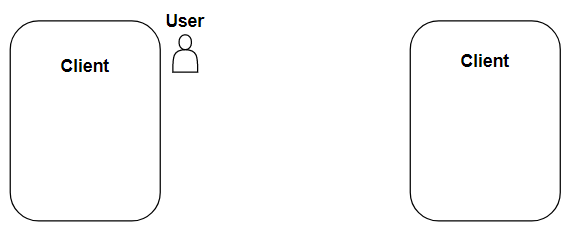
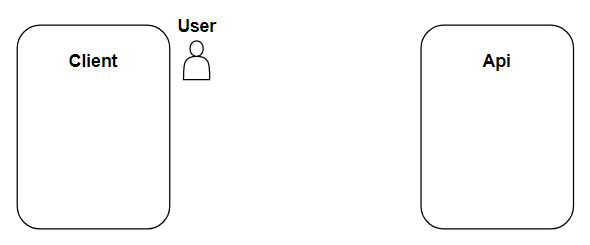
Bijna afgewerkte literatuurstudie

diff --git a/bachproef/standvanzaken.tex b/bachproef/standvanzaken.tex
@@ -7,21 +7,21 @@
 
 % Pas na deze inleidende paragraaf komt de eerste sectiehoofding.
 
-In deze studie lees je alles over het OAuth framework en wat de rol van azure hierin is. Het doel van deze studie is om een nauwgezet beeld te krijgen van het onderwerp om zo op de hoogte te zijn van de huidige stand van zaken in het onderzoeksdomein. Deze studie focust zich op volgende vragen. Wat houdt het OAuth framework in? Waarom was er vraag naar een nieuw authorization framework? Hoe is OAuth geëvalueerd? Wat zijn enkele problemen van OAuth? Wat heef azure active directory hiermee te maken? Ook zal duidelijk het verschil tussen authorization en authenticatie uitgelegd worden om daarna kort in te gaan op openID, een framework dat bovenop OAuth geplaatst kan worden.
-\section{\IfLanguageName{dutch}{Het OAuth framework}{The OAuth framework}}
+In deze studie lees je alles over het OAuth-framework en wat de rol van azure hierin is. Het doel van deze studie is om een nauwgezet beeld te krijgen van het onderwerp om zo op de hoogte te zijn van de huidige stand van zaken in het onderzoeksdomein. Deze studie focust zich op volgende vragen. Wat houdt het OAuth-framework in? Waarom was er vraag naar een nieuw authorization framework? Wat heeft azure active directory hiermee te maken? Ook zal duidelijk het verschil tussen authorization en authenticatie uitgelegd worden om daarna kort in te gaan op openID, een framework dat bovenop OAuth geplaatst kan worden.
+\section{\IfLanguageName{dutch}{Het OAuth-framework}{The OAuth-framework}}
 \label{sec:OAuthFramework}
 Om de onderzoeksvraag correct te beantwoorden is het belangrijk dat er eerst diep wordt ingegaan op het doel en de flow van het authorization framework OAuth.
 
-OAuth is een framework dat het mogelijk maakt voor gebruikers om applicaties toegang te geven tot hun gegevens van applicatie van derden zonder hier hun wachtwoord voor te moeten geven \autocite{Deniss2016}.
+OAuth is een framework dat het mogelijk maakt voor gebruikers om applicaties toegang te geven tot hun gegevens in applicatie van derden zonder hier hun wachtwoord voor te moeten geven \autocite{Deniss2016}.
 
-Voor het begrijpen van OAuth is het belangrijk dat enkele termen geassocieerd worden met hun juiste betekenis. Het OAuth framework heeft drie onderdelen die essentieel zijn om de flow goed te begrijpen. Hier wordt gesproken over een client, een api en een user. Zoals afgebeeld in figuur \ref{fig:oauth1} 
+Voor het begrijpen van OAuth is het belangrijk dat enkele termen geassocieerd worden met hun juiste betekenis. Het OAuth-framework heeft drie onderdelen die essentieel zijn om de flow goed te begrijpen. Hier wordt gesproken over een client, een api en een user, zoals afgebeeld in figuur \ref{fig:oauth1} \autocite{Services2016}.
 \begin{figure}[H]
 	\centering
 	\includegraphics{OAuthFlow1} 
 	\caption[Visueel de drie componenten]{Hier zijn visueel de drie componenten van OAuth afgebeeld.}
 	\label{fig:oauth1}
 \end{figure}
-De flow zal uitgelegd worden aan de hand van een voorbeeld. In dit voorbeeld wordt als client een webapplicatie genomen. De api wordt dan voorgesteld als de authorization en resource server van de applicatie waar men de gebruiker gegevens van wensen. Om het gemakkelijk te houden zal dit hier Facebook zijn. Merk wel op dat de authorization server niks van persoonlijke informatie over de gebruiker heeft, deze is puur voor authorization. De persoonlijke gegevens en resources van de gebruiker zijn allemaal te vinden op de resource server. Voor de user wordt de user Jan gebruikt. Dit voorbeeld wordt visueel afgebeeld op figuur \ref{fig:oauth2}.
+De flow kan uitgelegd worden aan de hand van een voorbeeld. In dit voorbeeld wordt als client een webapplicatie genomen. De api wordt dan voorgesteld als de authorization en resource server van de applicatie waar de webapplicatie de gebruikergegevens van wenst. Om het gemakkelijk te houden zal dit hier Facebook zijn. Merk wel op dat de authorization server niks van persoonlijke informatie over de gebruiker heeft, deze is puur voor authorization. De persoonlijke gegevens en resources van de gebruiker zijn allemaal te vinden op de resource server. Voor de user wordt de naam Jan gebruikt. Dit voorbeeld wordt visueel afgebeeld op figuur \ref{fig:oauth2} \autocite{Deniss2016} \autocite{Services2016}.
 \begin{figure}[H]
 	\centering
 	\includegraphics{OAuthFlow2} 
@@ -29,30 +29,30 @@ De flow zal uitgelegd worden aan de hand van een voorbeeld. In dit voorbeeld wor
 	\label{fig:oauth2}
 \end{figure}
 In dit voorbeeld wenst de gebruiker Jan zijn contacten van Facebook te synchroniseren met zijn contacten op de webapplicatie. Hiervoor heeft de webapplicatie dus de gegevens van Jan nodig die op de resource server van Facebook staan, maar dit zonder het wachtwoord van Jan te weten. Hoe gaat dit in zijn werk?
-De eerste stap is dat Jan vraagt om zijn contacten te sychroniseren door op een knop op de webapplicatie te klikken. Wanner hierop gelikt wordt begint OAuth met het uitvoeren van de flow. De webapplicatie zal een aanvraag sturen naar de authorization server van Facebook en de server zal een inlog scherm tonen aan de gebruiker. Jan kan nu inloggen met zijn gegevens van facebook op de authorization server. Dit zie je visueel op figuur \ref{fig:oauth3}.
+De eerste stap is dat Jan vraagt om zijn contacten te sychroniseren door op een knop op de webapplicatie te klikken. Wanneer hierop geklikt wordt begint OAuth met het uitvoeren van de flow. De webapplicatie zal een aanvraag sturen naar de authorization server van Facebook en de server zal een inlog scherm tonen aan de gebruiker. Jan kan nu inloggen met zijn gegevens van Facebook op de authorization server. Dit zie je visueel op figuur \ref{fig:oauth3} \autocite{Services2016} \autocite{OktaDev2018}.
 \begin{figure}[H]
 	\centering
 	\includegraphics{OAuthFlow3} 
 	\caption[Eerste call naar de authorization server]{Hier wordt visueel de eerste call naar de authorization server afgebeeld.}
 	\label{fig:oauth3}
 \end{figure}
-Wanneer Jan heeft ingelogd op de authorization server en een eventueel extra toestemming scherm aanvaard heeft, zal de server een authorization grant, waar zich een authorization code in bevindt, terugsturen naar de webapplicatie. Dit is afgebeeld op figuur \ref{fig:oauth4}.
+Wanneer Jan heeft ingelogd op de authorization server en een eventueel extra toestemmingsscherm aanvaard heeft, zal de server een authorization grant, waar zich een authorization code in bevindt, terugsturen naar de webapplicatie. Dit is afgebeeld op figuur \ref{fig:oauth4}  \autocite{Services2016}.
 \begin{figure}[H]
 	\centering
 	\includegraphics{OAuthFlow4} 
 	\caption[Authorization grant wordt teruggestuurd]{Hier wordt visueel afgbeeld dat de authorization server een authorization grant terugstuurd naar de webapplicatie.}
 	\label{fig:oauth4}
 \end{figure}
-De webapplicatie gaat nu deze authorization grant die de authorization code bevat naar de authorization server sturen om zo aan een access token te komen, deze access token is in de vorm van een bearer token. Deze token zal later gebruikt worden om aan de gegevens van Jan op de resource server te kunnen. Wanneer de authorization server de authorization grant en code van Jan goedkeurt zal deze een access token terugsturen naar de webapplicatie (figuur \ref{fig:oauth5}).
+De webapplicatie gaat nu deze authorization grant die de authorization code bevat naar de authorization server sturen om zo aan een access token te komen. Deze access token is in de vorm van een bearer token. Deze token zal later gebruikt worden om aan de gegevens van Jan op de resource server te kunnen. Wanneer de authorization server de authorization grant en code van Jan goedkeurt zal deze een access token terugsturen naar de webapplicatie (figuur \ref{fig:oauth5})  \autocite{Services2016} \autocite{OktaDev2018}.
 \begin{figure}[H]
 	\centering
 	\includegraphics{OAuthFlow5} 
 	\caption[Ophalen van de access code]{Hier wordt afgebeeld hoe de webapplicatie die authorization grant terugstuurt naar de authorization server om zo een access code te bemachtigen.}
 	\label{fig:oauth5}
 \end{figure}
-Nu er een geldige access token bemachtigd is heeft de webapplicatie toegang tot de resource server om zo aan de gegevens van Jan te kunnen. Natuurlijk is het niet de bedoeling dat de webapplicatie zomaar aan alle gegevens van Jan kan. Voor dit te vermijden is er nog een belangrijke term binnen OAuth, namelijk scopes. Een authorization request is altijd scoped. Dit betekent in dit voorbeeld dat de authorization request scoped was om enkel de contacten van Jan te bekijken. De webapplicatie kan dus enkel de contacten raadplegen en geen andere persoonlijke informatie van Jan. 
+Nu er een geldige access token bemachtigd is, heeft de webapplicatie toegang tot de resource server om zo aan de gegevens van Jan te kunnen. Natuurlijk is het niet de bedoeling dat de webapplicatie zomaar aan alle gegevens van Jan kan. Om dit te vermijden is er nog een belangrijke term binnen OAuth, namelijk scopes. Een authorization request is altijd scoped. Dit betekent in dit voorbeeld dat de authorization request scoped was om enkel de contacten van Jan te bekijken. De webapplicatie kan dus enkel de contacten raadplegen en geen andere persoonlijke informatie van Jan \autocite{Services2016} \autocite{OktaDev2018}. 
 
-Om nu dus aan de contacten van Jan te komen gaat de webapplicatie dit verzoek naar de resource server sturen met de access token inbegrepen. De resource sever gaat dan kijken of de access token correct is en zo de contacten gaan ophalen en terugsturen naar de webapplicatie (figuur \ref{fig:oauth6}).
+Om nu dus aan de contacten van Jan te komen, gaat de webapplicatie dit verzoek naar de resource server sturen met de access token inbegrepen. De resource sever gaat dan kijken of de access token correct is en zo de contacten gaan ophalen en terugsturen naar de webapplicatie (figuur \ref{fig:oauth6}) \autocite{Services2016} \autocite{OktaDev2018}.
 
 \begin{figure}[H]
 	\centering
@@ -60,89 +60,89 @@ Om nu dus aan de contacten van Jan te komen gaat de webapplicatie dit verzoek na
 	\caption[Gebruik van access token voor ophalen protected resource]{Hier wordt afgebeeld hoe de webapplicatie met de access token de protected resources van de user gaat ophalen.}
 	\label{fig:oauth6}
 \end{figure}
-Merk op dat OAuth hier dient als het authorization framework, de authentication van de gebruiker Jan gebeurt met openId connect door het gebruik van Id tokens die mee gegeven worden met de access token.
+Merk op dat OAuth hier dient als het authorization framework. De authentication van de gebruiker Jan gebeurt met openId connect door het gebruik van id-tokens die mee gegeven worden met de access token \autocite{OktaDev2018}.
 
-Om dit allemaal te laten werken is er een belangrijke stap die niet vergeten mag worden. Voor dat de webapplicatie deze flow kan hanteren met een api, in dit geval Facebook. Moet de webapplicatie zich eerst registreren bij de Facbook api service. Om dit te doen moet de webapplicatie zijn naam, website en callback url opgeven. Een callback url is simpelweg een url naar waar de api zal redirecten na het identificeren van de gebruiker. Wanner de webapplicatie deze gegevens aan de api service gegeven heeft krijgt deze een clientId en een client secret terug. Een cleintId is een publieke en unieke key die gebruikt wordt om de webapplicatie te identificeren als applicatie. De client secret is een private key die geheimgehouden wordt tussen de applicatie en de api. Deze secret wordt gebruikt om de applicatie te identificeren wanneer deze een verzoek doet voor een access token. 
+Om dit allemaal te laten werken is er een belangrijke stap die niet vergeten mag worden. Voordat de webapplicatie deze flow kan hanteren met een api, in dit geval Facebook, moet de webapplicatie zich eerst registreren bij de Facbook api service. Om dit te doen moet de webapplicatie zijn naam, website en callback url opgeven. Een callback url is simpelweg een url naar waar de api zal redirecten na het identificeren van de gebruiker. Wanneer de webapplicatie deze gegevens aan de api service gegeven heeft, krijgt deze een clientId en een client secret terug. Een cleintId is een publieke en unieke key die gebruikt wordt om de webapplicatie te identificeren als applicatie. De client secret is een private key die geheimgehouden wordt tussen de applicatie en de api. Deze secret wordt gebruikt om de applicatie te identificeren wanneer deze een verzoek doet voor een access token \autocite{OktaDev2018}. 
 
 \subsection{\IfLanguageName{dutch}{Grant types van OAuth}{Grant types of OAuth}}
-Om de vier verschillende grant types van OAuth te bekijken is het belangrijk bovenstaand voorbeeld in meer detail te bekijken (figuur \ref{fig:grantTypes1}).
+Om de vier verschillende grant types van OAuth te bekijken is het belangrijk bovenstaand voorbeeld meer in detail te bekijken (figuur \ref{fig:grantTypes1}).
 \begin{figure}[H]
 	\centering
 	\includegraphics{GrantTypes1} 
-	\caption[Gedetailleerd voorbeeld voor uitleg grant types]{Dit is het voorgaande voorbeeld getailleerder uitgewerkt.}
+	\caption[Gedetailleerd voorbeeld voor uitleg grant types]{Dit is het voorgaande voorbeeld gedetailleerd uitgewerkt.}
 	\label{fig:grantTypes1}
 \end{figure}
-In deze figuur is dezelfde flow als het vorige voorbeeld uitgetekend. Het is belangrijk dit zo uit te tekenen voor dat er verdere wordt in gegaan op grant types.
-Het eerste dat besproken moet worden is netwerk communicatie. Binnen netwerk communicatie zijn er twee mogelijke channels die gebruikt kunnen worden voor communicatie. Deze worden opgesplits in: 
+In deze figuur is dezelfde flow als het vorige voorbeeld uitgetekend. Het is belangrijk dit zo uit te tekenen voordat er verder wordt ingegaan op grant types.
+Het eerste wat besproken moet worden is netwerkcommunicatie. Binnen netwerkcommunicatie zijn er twee mogelijke channels die gebruikt kunnen worden voor communicatie. Deze worden opgesplits in \autocite{OktaDev2018}: 
 \begin{itemize}
 	\item Back channel (highly secured)
 	\item Front channel (less secured channel)
 \end{itemize}
 \subsubsection{\IfLanguageName{dutch}{Back channel (highly secured)}{Back channel (highly secured)}}
-Een back channel is de veiligste channel van de twee om gegevens uit te wisselen. Deze uitwisseling gebeurt vaak over https, is vaak SSL encrypted en kan niet onderschept worden. Deze channel wordt vaak gebruikt voor communicatie tussen twee servers of api's.
+Een back channel is de veiligste channel van de twee om gegevens uit te wisselen. Deze uitwisseling gebeurt vaak over https, is vaak SSL encrypted en kan niet onderschept worden. Deze channel wordt vaak gebruikt voor communicatie tussen twee servers of api's \autocite{OktaDev2018}.
 \subsubsection{\IfLanguageName{dutch}{Front channel (less secured channel)}{Front channel (less secured channel)}}
-Front channel is minder beveiligd dan een back channel. Een goed voorbeeld van front channel communicatie is bijvoorbeeld de browser. Deze is veilig maar als er gekeken wordt naar hoe een browser gebouwd is valt op dat er loopholes of data lekken kunnen zijn. Alles dat met front channel verstuurd wordt kan mogelijks zelf gewoon in de url afgelezen worden.
+Front channel is minder beveiligd dan een back channel. Een goed voorbeeld van front channel communicatie is bijvoorbeeld de browser. Deze is veilig, maar als er gekeken wordt naar hoe een browser gebouwd is, valt op dat er loopholes of datalekken kunnen zijn. Alles wat met front channel verstuurd wordt, kan mogelijks zelfs gewoon in de url afgelezen worden \autocite{OktaDev2018}.
 \subsubsection{\IfLanguageName{dutch}{Grant types}{Grant types}}
-Bij het bekijken van figuur \ref{fig:grantTypes1} kan nu een verschil gezien worden tussen stippellijnen en volle lijnen. Deze staan voor welke channel er gebruikt wordt. Aangezien front channel minder beveiligd is dan back channel wordt deze gebruikt voor alles wat niet super beveiligd moet worden, zoals het uitwisselen van de authorization grant. Moest dit onderschept worden zou het niet zo erg zijn, met een authorization grant is een potentiele hacker niks. 
+Bij het bekijken van figuur \ref{fig:grantTypes1} kan je een verschil zien tussen stippellijnen en volle lijnen. Deze staan voor welke channel er gebruikt wordt. Aangezien front channel minder beveiligd is dan back channel wordt deze gebruikt voor alles wat niet super beveiligd moet worden, zoals het uitwisselen van de authorization grant. Als dit onderschept zou worden, zou het niet zo erg zijn, met een authorization grant is een potentiele hacker niks \autocite{OktaDev2018}. 
 
-Wat wel beveiligd moet worden is de access token en mogelijk id token. Als deze onderschept wordt door een mogelijke hacker, kan deze aan de persoonlijke gegevens van de gebruiker op de resource server. Daarom wordt hiervoor de backchannel gebruikt. Dit is ook meteen de reden waarom er tweemaal terug gaan naar de authorization server in plaats dat deze in één keer de access token meestuurt in de front channel.
+Wat wel beveiligd moet worden, is de access token en mogelijke id-token. Als deze onderschept wordt door een potentiele hacker, kan deze aan de persoonlijke gegevens van de gebruiker op de resource server. Daarom wordt hiervoor de back channel gebruikt. Dit is ook meteen de reden waarom er tweemaal terug wordt gegaan naar de authorization server in plaats van dat deze in één keer de access token meestuurt in de front channel \autocite{OktaDev2018}.
 
-Nu de verschillende channels zijn uitgeklaard kunnen de vier grant types van OAuth besproken worden. De vier grant types van OAuth zijn de volgende:
+Nu de verschillende channels zijn uitgeklaard kunnen de vier grant types van OAuth besproken worden. De vier grant types van OAuth zijn de volgende \autocite{OktaDev2018}:
 \begin{itemize}
 	\item Authorization code grant (front + back channel)
-	\item Implicit (front channel only)
-	\item Resource owner password credentials (back channel only)
-	\item Client credentials (back channel only)
+	\item Implicit (alleen front channel)
+	\item Resource owner password credentials (alleen back channel)
+	\item Client credentials (alleen back channel)
 \end{itemize}
-In \ref{fig:grantTypes1} zie je een voorbeeld van Authorization code grant. Dit is de grant type die het meest gebruikt wordt bij webapplicaties met een server backend. Deze grant type is ook meteen de veiligste aangezien deze gebruik maakt van zowel front als back channel communicatie.
+In \ref{fig:grantTypes1} zie je een voorbeeld van authorization code grant. Dit is de grant type die het meest gebruikt wordt bij webapplicaties met een server backend. Deze grant type is ook meteen de veiligste aangezien deze gebruik maakt van zowel front- als back channelcommunicatie \autocite{OktaDev2018}.
 
-De op een na meest gebruikte grant type is implicit flow. Deze grant type is iets minder veilig dan authorization code grant maar wordt vaak gebruikt bij bijvoorbeeld javascript applicaties. 
+De op een na meest gebruikte grant type is implicit flow. Deze grant type is iets minder veilig dan authorization code grant, maar wordt vaak gebruikt bij bijvoorbeeld javascript applicaties \autocite{OktaDev2018}. 
 
 Aangezien authorization code grant en implicit flow de meest gebruikte zijn zie je in figuur \ref{fig:grantTypes2} ook een visueel voorbeeld van een implicit flow. Nu is het mogelijk om duidelijk het verschil te zien in de flow.
 \begin{figure}[H]
 	\centering
 	\includegraphics{GrantTypes2} 
-	\caption[Visuele voorstelling van implicit grant]{Hier ze je het zelfde schema als de vorige voorbeelden maar dan met implicit grant inplaats van authorization code grant.}
+	\caption[Visuele voorstelling van implicit grant]{Hier zie je het zelfde schema als de vorige voorbeelden, maar dan met implicit grant in plaats van authorization code grant.}
 	\label{fig:grantTypes2}
 \end{figure}
-Zoals je kan zien in figuur \ref{fig:grantTypes2} zijn nu alle requests met volle lijnen in plaats van met stippellijnen. Dit komt dus omdat er bij implicit flow geen back channel communicatie gebruikt wordt. Hier gebeurt alles met front channel communicatie. Wat ook opvalt is dat hier meteen de access token door de authorization server wordt meegestuurd in plaats van eerst een authorization grant met authorization code. Er moest dus één request minder naar de authorization server gedaan worden. Het nadeel van deze flow is dus wel dat het minder veilig is dan authorization code grant. 
+Zoals je kan zien in figuur \ref{fig:grantTypes2} zijn nu alle requests met volle lijnen in plaats van met stippellijnen. Dit komt dus omdat er bij implicit flow geen back channel communicatie gebruikt wordt. Hier gebeurt alles met front channel communicatie. Wat ook opvalt is dat hier meteen de access token door de authorization server wordt meegestuurd in plaats van eerst een authorization grant met authorization code. Er moest dus één request minder naar de authorization server gedaan worden. Het nadeel van deze flow is dus wel dat het minder veilig is dan authorization code grant \autocite{OktaDev2018}. 
 
-Bij authorization code grant worden het uitwisselen van access token met de authorization server en alle communicatie met de resource server dus via de back channel gedaan. Dit is dus omdat deze access token niet in de verkeerde handen mag vallen. Bij elk request naar de resource server wordt ook deze access token ook mee gestuurd en daarom gebeuren deze requests ook via de backchannel.
+Bij authorization code grant worden het uitwisselen van access token met de authorization server en alle communicatie met de resource server dus via de back channel gedaan. Dit is dus omdat deze access token niet in de verkeerde handen mag vallen. Bij elk request naar de resource server wordt deze access token ook mee gestuurd en daarom gebeuren deze requests ook via de back channel \autocite{OktaDev2018}.
 
-De client credentials flow en resource owner password credentials worden minder gebruikt. Client credentials flow wordt soms nog gebruikt bij machine naar machine communicatie en resource owner password credentials wordt soms nog gebruikt om oudere applicaties juist te doen werken. Maar beide zijn ze niet meer aan te raden om te gebruiken.
+De client credentials flow en resource owner password credentials worden minder gebruikt. Client credentials flow wordt soms nog gebruikt bij machine-naar-machinecommunicatie en resource owner password credentials wordt soms nog gebruikt om oudere applicaties juist te doen werken. Beide zijn ze echter niet meer aan te raden om te gebruiken \autocite{OktaDev2018}.
 
-\subsection{\IfLanguageName{dutch}{Authentication vs Authorization}{Authentication vs Authorization}}
-Zoals eerder vermeld is het OAuth framework enkel bedoeld voor authorization, maar met enkele aanpassingen kan het ook gebruikt worden voor authentication. Maar wat is nu precies het verschil?
+\subsection{\IfLanguageName{dutch}{Authentication vs authorization}{Authentication vs authorization}}
+Zoals eerder vermeld is het OAuth-framework enkel bedoeld voor authorization, maar met enkele aanpassingen kan het ook gebruikt worden voor authentication. Maar wat is nu precies het verschil \autocite{rwike772020}?
 
-Authentication is het proces van bewijzen dat je bent wie je zegt dat je bent. Niet te vergelijken met authorization, wat inhoudt om een geïdentificeerde partijen toestemming te geven om iets te doen en te bepalen tot welke gegevens deze partij toegang heeft.
+Authentication is het proces van bewijzen dat je bent wie je zegt dat je bent. Dit is dus niet te vergelijken met authorization, dat dient om een geïdentificeerde partij toestemming te geven om iets te doen en om te bepalen tot welke gegevens deze partij toegang heeft \autocite{rwike772020}.
 
 \subsection{\IfLanguageName{dutch}{OpenId connect}{OpenId connect}}
-Als OAuth enkel bedoeld is voor authorization, wat is die id token dan en hoe doe je aan authentication? Zoals gezegd kan je met een kleine aanpassing zorgen dat je met OAuth ook aan athentication kan doen. Dit framework heet openId connect.
+Als OAuth enkel bedoeld is voor authorization, wat is die id-token dan en hoe doe je aan authentication? Zoals gezegd kan je met een kleine aanpassing zorgen dat je met OAuth ook aan authentication kan doen. Dit framework heet openId connect. \autocite{rwike772019} \autocite{rwike772019a}
 
-Toen openId connect nog niet bestond werd OAuth ook al door velen gebruikt, maar niet zoals het hoorde. Veel mensen vonden de authorization mogelijkheden van OAuth zo makkelijk dat ze dit graag wouden gebruiken, maar ze wouden er ook graag authentication mee doen. Door dit te forceren werd het framework fout gebruikt en ontstonden er verschillende implementaties die niet op elkaar afgestemd waren en dit zorgde voor onduidelijkheid.
+Toen openId connect nog niet bestond werd OAuth ook al door velen gebruikt, maar niet zoals het hoorde. Veel mensen vonden de authorization mogelijkheden van OAuth zo makkelijk dat ze dit graag wilden gebruiken, maar ze wilden er ook graag authentication mee doen. Door dit te forceren werd het framework fout gebruikt en ontstonden er verschillende implementaties die niet op elkaar afgestemd waren en dit zorgde voor onduidelijkheid \autocite{rwike772019} \autocite{rwike772019a}.
 
-Hierdoor ontstond openId connect. Dit is een framework gebouwd boven op het OAuth framework waardoor authentication mogelijk is. OpenId connect is het framework dat ervoor zorgt dat er niet enkel een access token wordt gestuurd van de authorisation server naar de client, maar ook een id token. Hiermee kan de user dan geverifieerd worden.
+Hierdoor ontstond openId connect. Dit is een framework gebouwd boven op het OAuth-framework waardoor authentication mogelijk is. OpenId connect is het framework dat ervoor zorgt dat er niet enkel een access token wordt gestuurd van de authorisation server naar de client, maar ook een id-token. Hiermee kan de user dan geverifieerd worden \autocite{rwike772019} \autocite{rwike772019a}.
 
 \section{\IfLanguageName{dutch}{Geschiedenis van OAuth}{History of OAuth}}
 \label{sec:OAuthHistory}
-In 2007 is de OAuth-discussiegroep gestart als een samenwerkingsinitiatief om toegang tot beschermde bronnen van gebruikers mogelijk te maken zonder dat hun inloggegevens bekend hoeven te worden gemaakt. De eerste versie van het OAuth framework (OAuth 1.0) is opgesteld in oktober 2007 en in april 2010 uitgebracht als een RFC (request for comments).
+In 2007 is de OAuth-discussiegroep gestart als een samenwerkingsinitiatief om toegang tot beschermde bronnen van gebruikers mogelijk te maken zonder dat hun inloggegevens bekend hoeven te worden gemaakt. De eerste versie van het OAuth-framework (OAuth 1.0) is opgesteld in oktober 2007 en in april 2010 uitgebracht als een RFC (request for comments) \autocite{Chen2014}.
 
-Het framework heeft sindsdien verschillende herzieningen ondergaan. De belangrijkste verbeteringen van het protocol zijn in oktober 2012 uitgebracht als het OAuth 2.0 framework.
+Het framework heeft sindsdien verschillende herzieningen ondergaan. De belangrijkste verbeteringen van het protocol zijn in oktober 2012 uitgebracht als het OAuth 2.0 framework \autocite{Chen2014}.
 
 \subsection{\IfLanguageName{dutch}{OAuth 1.0}{OAuth 1.0}}
-Toen de eerste versie van OAuth werd opgesteld, was er nog een ander algemeen authenticatie framework, genaamd openID (niet te verwarren met openId connect). Daarom is OAuth speciaal ontwikkeld om een probleem op te lossen dat niet onder openID valt: een stabiele overdracht van toegang tot de api. Hoewel soms de term "api-authenticatie" werd gebruikt om de OAuth-functies te karakteriseren, was het framework zelf nooit bedoeld voor gebruikersauthenticatie.
+Toen de eerste versie van OAuth werd opgesteld, was er nog een ander algemeen authenticatie framework, genaamd openID (niet te verwarren met openId connect). Daarom is OAuth speciaal ontwikkeld om een probleem op te lossen dat niet onder openID valt: een stabiele overdracht van toegang tot de api. Hoewel soms de term api-authenticatie werd gebruikt om de OAuth-functies te karakteriseren, was het framework zelf nooit bedoeld voor gebruikersauthenticatie \autocite{Chen2014}.
 
-Twee jaar na de release van de concept OAuth 1.0 werd een aanval ontdekt tegen de goedkeuringsfase van de access token van het framework. Er is een wijziging van het oorspronkelijke framework (genaamd OAuth 1.0a) uitgebracht om de bug te corrigeren.
+Twee jaar na de release van het concept OAuth 1.0 werd een aanval ontdekt tegen de goedkeuringsfase van de access token van het framework. Er is een wijziging van het oorspronkelijke framework (genaamd OAuth 1.0a) uitgebracht om de bug te corrigeren \autocite{Chen2014}.
 \subsection{\IfLanguageName{dutch}{OAuth 2.0}{OAuth 2.0}}
-OAuth 1.0 (en OAuth 1.0a) hadden enkele belangrijke nadelen aan hun gebruiksscenario's. In plaats van het huidige protocol uit te breiden, stemde de werkgroep ermee in de specificatie volledig te wijzigen om een nieuw OAuth 2.0 framework te creëren. Volgens een vertrekkende hoofdauteur van OAuth 1.0 was deze beslissing het resultaat van een "ernstig en onoverbrugbaar conflict" tussen verschillende belangengroepen.
+OAuth 1.0 (en OAuth 1.0a) hadden enkele belangrijke nadelen aan hun gebruiksscenario's. In plaats van het huidige protocol uit te breiden, stemde de werkgroep ermee in de specificatie volledig te wijzigen om een nieuw OAuth 2.0 framework te creëren. Volgens een vertrekkende hoofdauteur van OAuth 1.0 was deze beslissing het resultaat van een ernstig en onoverbrugbaar conflict tussen verschillende belangengroepen \autocite{Chen2014}.
 
-Een grote verandering was de toevoeging van bearertokens die door OAuth 2.0 werden geïmplementeerd. Dat wil zeggen, de access token van een gebruiker was niet langer gebonden aan een vertrouwde client, maar elke client die in het bezit is van deze token heeft vrije toegang tot de beschermde resource van de gebruiker. OAuth 2.0 biedt ook vier methoden voor het uitwisselen van access tokens, deze methoden worden grants genoemd en kunnen worden gezien als afzonderlijke "modellen" van OAuth 2.0. De verschillende grants zijn reeds besproken.
+Een grote verandering was de toevoeging van bearertokens die door OAuth 2.0 werden geïmplementeerd. Dat wil zeggen, de access token van een gebruiker was niet langer gebonden aan een vertrouwde client, maar elke client die in het bezit is van deze token heeft vrije toegang tot de beschermde resource van de gebruiker. OAuth 2.0 biedt ook vier methoden voor het uitwisselen van access tokens. Deze methoden worden grants genoemd en kunnen worden gezien als afzonderlijke "modellen" van OAuth 2.0. De verschillende grants zijn reeds besproken \autocite{Chen2014}.
 \section{\IfLanguageName{dutch}{Microsoft azure active directory}{Microsoft azure active directory}}
 \label{sec:AzureRollingKeys}
-Azure Active Directory (Azure AD) is de cloudgebaseerde service voor identiteits- en toegangsbeheer die wordt aangeboden door Microsoft. Hiermee kunnen werknemers zich aanmelden en toegang hebben tot external resources zoals Microsoft Office 365, Azure portal, en duizenden andere SaaS applicaties. Maar ook interne resources zoals apps op het bedrijfsnetwerk en intranet, samen met elke cloud app gemaakt door het bedrijf zelf.
+Azure Active Directory (Azure AD) is de cloudgebaseerde service voor identiteits- en toegangsbeheer die wordt aangeboden door Microsoft. Hiermee kunnen werknemers zich aanmelden en toegang hebben tot external resources zoals Microsoft Office 365, Azure portal, en duizenden andere SaaS applicaties, maar ook interne resources zoals apps op het bedrijfsnetwerk en intranet, samen met elke cloud app gemaakt door het bedrijf zelf \autocite{Boucher2019} \autocite{msaburnley2019}.
 \subsection{\IfLanguageName{dutch}{Rolling keys}{Rolling keys}}
-Azure AD maakt gebruik van openbare cryptografie op basis van industriestandaarden om vertrouwen te creëren tussen zichzelf en de applicaties die het gebruiken. In praktische termen werkt dit als volgt: Azure AD gebruikt een signing key die bestaat uit een combinatie van public en private key. Azure AD produceert een secutity token die informatie over de gebruiker bevat wanneer een gebruiker zich aanmeldt bij een toepassing die Azure AD gebruikt voor verificatie. Azure AD gebruikt zijn private key om deze token te ondertekenen voordat de key wordt teruggestuurd naar de server. Om te verifiëren dat de token legitiem is en afkomstig is van Azure AD, moet de toepassing de handtekening van de token valideren met behulp van de public Azure AD key in het OpenID Link discovery document.
+Azure AD maakt gebruik van openbare cryptografie op basis van industriestandaarden om vertrouwen te creëren tussen zichzelf en de applicaties die het gebruiken. In praktische termen werkt dit als volgt: Azure AD gebruikt een signing key die bestaat uit een combinatie van public en private key. Azure AD produceert een security token die informatie over de gebruiker bevat wanneer een gebruiker zich aanmeldt bij een toepassing die Azure AD gebruikt voor verificatie. Azure AD gebruikt zijn private key om deze token te ondertekenen voordat de key wordt teruggestuurd naar de server. Om te verifiëren dat de token legitiem is en afkomstig is van Azure AD, moet de toepassing de handtekening van de token valideren met behulp van de public Azure AD key in het OpenID Link discovery document  \autocite{Boucher2019} \autocite{msaburnley2019}.
 
-De signing key van Azure AD rolt regelmatig om veiligheidsredenen en kan in geval van nood automatisch worden omgedraaid. Elk programma dat is geïntegreerd met Azure AD moet in staat zijn om een main rollover event aan te kunnen, ongeacht hoe vaak dit kan gebeuren. Als dit niet het geval is, en uw applicatie wil een verlopen sleutel gebruiken om de handtekening op een token te controleren, dan zal het inloggen mislukken.
+De signing key van Azure AD rolt regelmatig om veiligheidsredenen en kan in geval van nood automatisch worden omgedraaid. Elk programma dat is geïntegreerd met Azure AD moet in staat zijn om een main rollover event aan te kunnen, ongeacht hoe vaak dit kan gebeuren. Als dit niet het geval is, en je applicatie wil een verlopen sleutel gebruiken om de handtekening op een token te controleren, dan zal het inloggen mislukken  \autocite{Boucher2019} \autocite{msaburnley2019} \autocite{rwike772018}.
 
-Het OpenID Link discovery document bevat vaak meer dan één geldige sleutel. Uw applicatie moet bereid zijn om alle sleutels te gebruiken die in het document worden vermeld, aangezien één sleutel binnenkort kan worden gerold, een andere sleutel aan vervanging kan toe zijn.
+Het OpenID Link discovery document bevat vaak meer dan één geldige sleutel. Je applicatie moet bereid zijn om alle sleutels te gebruiken die in het document worden vermeld, aangezien één sleutel binnenkort kan worden gerold, een andere sleutel aan vervanging toe kan zijn  \autocite{Boucher2019} \autocite{msaburnley2019}.

diff --git a/bachproef/voorwoord.tex b/bachproef/voorwoord.tex
@@ -10,10 +10,9 @@
 %% eigen standpunt (``ik-vorm'') mag schrijven. Je kan hier bv. motiveren
 %% waarom jij het onderwerp wil bespreken.
 %% Vergeet ook niet te bedanken wie je geholpen/gesteund/... heeft
-Het onderwerp OAuth aan de hand van rolling keys sprak mij erg aan aangezien ik deze termen al enkele malen was tegengekomen in onderzoek naar technieken en frameworks. Na dat ik deze termen eveneens was tegengekomen bij het lezen van een opdracht die ik voor een bedrijf moest uitvoeren was ik ervan overtuigd dat dit onderwerp niet enkel zeer interessant ging zijn, maar ook vaak gebruikt wordt in de dagelijkse development wereld. \newline\newline
-Na kort het onderwerp te bekijken en hier enkele artikels over te lezen bleek dit nog interessanter te zijn dan ik had verwacht. Het framework OAuth is namelijk zo populair dat zo goed als iedereen hier al eens gebruik van gemaakt heeft zonder dit te beseffen. Heb je al eens ingelogd met facebook of google op een website van derden? Dan heb je de OAuth flow al aan de lijven ondervonden. \newline\newline
-Ook interesseerde de combinatie met azure active directory rolling keys mij. Zeker na een tijdje mee te draaien in de bedrijfswereld merk je dat azure extreem populair is binnen bedrijven en organisaties en dat dit platform zeer nuttig functionaliteiten heeft. \newline\newline
-De combinatie van de het populaire framwork OAuth en het gebruik van een veel gebruikt platform zoals azure leek mij erg interessant om mijzelf in te verdiepen. Daarbij leek het mij voor bedrijven zeker interessant om hier dieper onderzoek naar te doen. \newline\newline
-Door deze redenen heb ik ervoor gekozen om voor mijn bachelorproef hier verder onderzoek naar te doen. \newline\newline
-Ik zou graag de lectoren Thomas Pollet en Jens Buysse willen bedanken voor het begeleiden van dit onderzoek. Alsook mijn ouders, zus, vriendin en vrienden voor de mentale steun die zij geboden hebben in het verloop van deze bachelorproef. Verder zou ik graag mijn stagebegeleider Benjamin De Clercq en collegas Arne Deruwe, Tim Van Roosbroeck, Karel Heydrickx, Nikola Invernizzi en Arne Vanhee willen bedanken voor de nodige uitleg en extra informatie.
+Het onderwerp OAuth aan de hand van rolling keys sprak mij erg aan aangezien ik deze termen al enkele malen was tegengekomen in onderzoek naar technieken en frameworks. Nadat ik deze termen eveneens was tegengekomen bij het lezen van een opdracht die ik voor een bedrijf moest uitvoeren, was ik ervan overtuigd dat dit onderwerp niet enkel zeer interessant ging zijn, maar ook vaak gebruikt zou worden in de dagelijkse development wereld. \newline\newline
+Nadat ik kort het onderwerp had bekeken en hier enkele artikels over had gelezen, bleek dit nog interessanter te zijn dan ik had verwacht. Het framework OAuth is namelijk zo populair dat zo goed als iedereen hier al eens gebruik van gemaakt heeft zonder dit te beseffen. Heb je al eens ingelogd met Facebook of Google op een website van derden? Dan heb je de OAuth flow al aan den lijve ondervonden. \newline\newline
+Ook interesseerde de combinatie met azure active directory rolling keys mij. Zeker na een tijdje mee te draaien in de bedrijfswereld, merk je dat azure extreem populair is binnen bedrijven en organisaties en dat dit platform zeer nuttige functionaliteiten heeft. \newline\newline
+De combinatie van het populaire framwork OAuth en het gebruik van een veel gebruikt platform zoals azure, daar wilde ik mij in verdiepen. Daarbij leek het mij ook voor bedrijven zeker de moeite om hier dieper onderzoek naar te doen. Ik besloot om voor mijn bachelorproef hier verder mee aan de slag te gaan. \newline\newline
+Ik zou graag de lectoren Thomas Pollet en Jens Buysse willen bedanken voor het begeleiden van dit onderzoek. Ook bedank ik mijn ouders, zus, vriendin en vrienden voor de mentale steun die zij geboden hebben tijdens het schrijven van deze bachelorproef. Verder zou ik graag mijn stagebegeleider Benjamin De Clercq en collega's Arne Deruwe, Tim Van Roosbroeck, Karel Heydrickx, Nikola Invernizzi en Arne Vanhee willen bedanken voor de nodige uitleg en extra informatie.
 

diff --git a/bachproef/inleiding.tex b/bachproef/inleiding.tex
@@ -8,17 +8,17 @@
 \label{sec:probleemstelling}
 
 De probleemstelling kan beschreven worden als een gebrekkige, onduidelijke of foutieve documentatie omtrent het onderwerp OAuth aan de hand van rolling keys op het internet. Het bedrijf Ventigrate verwacht dat ik dit probleem oplos door een volledige documentatie op te stellen rond OAuth aan de hand van rolling keys met bijhorende proof of concept. \newline\newline
-Mijn doelgroep bestaat uit Ventigrate met opdrachtgevers Kevin Pelkmans en Yannick Borghmans maar kan ook interessant zijn voor bedrijven en zelfstandigen die interesse hebben om hun authorisatie en authenticatie systeem professioneel op te bouwen of bij te stellen.
+Mijn doelgroep bestaat uit Ventigrate met opdrachtgevers Kevin Pelkmans en Yannick Borghmans, maar kan ook interessant zijn voor bedrijven en zelfstandigen die interesse hebben om hun autorisatie- en authenticatiesysteem professioneel op te bouwen of bij te stellen.
 
 \section{\IfLanguageName{dutch}{Onderzoeksvraag}{Research question}}
 \label{sec:onderzoeksvraag}
 
-De onderzoeksvraag voor dit onderzoek kan duidelijk geformuleerd worden als: "Hoe kan Ventigrate op een professionele manier een OAuth authorisatie server opzetten aan de hand van azure active directory rolling keys?" 
+De onderzoeksvraag voor dit onderzoek kan duidelijk geformuleerd worden als: "Hoe kan Ventigrate op een professionele manier een OAuth-autorisatieserver opzetten aan de hand van azure active directory rolling keys?" 
 
 \section{\IfLanguageName{dutch}{Onderzoeksdoelstelling}{Research objective}}
 \label{sec:onderzoeksdoelstelling}
 
-De doelstellingen voor dit onderzoek zijn het opbouwen van complete proof of concept met bijhorende documentatie voor het opzetten van een autorisatie server. Dit onderzoek wordt als een succes beschouwd als Ventigrate met gebruik van deze documentatie een volledig en correct idee heeft over wat OAuth inhoudt en hoe dit samenspeelt met azure. Ook moet Ventigrate instaat zijn om samen met de proof of concept een authorisatie server op te zetten voor hun bedrijf zonder extra bronnen van derde te raadplegen.
+De doelstelling voor dit onderzoek is het opbouwen van een complete proof of concept met bijhorende documentatie voor het opzetten van een autorisatieserver. Dit onderzoek wordt als een succes beschouwd als Ventigrate met gebruik van deze documentatie een volledig en correct idee heeft over wat OAuth inhoudt en hoe dit samenspeelt met azure. Ook moet Ventigrate in staat zijn om samen met de proof of concept een autorisatieserver op te zetten voor het bedrijf zonder extra bronnen van derden te raadplegen.
 
 \section{\IfLanguageName{dutch}{Opzet van deze bachelorproef}{Structure of this bachelor thesis}}
 \label{sec:opzet-bachelorproef}
